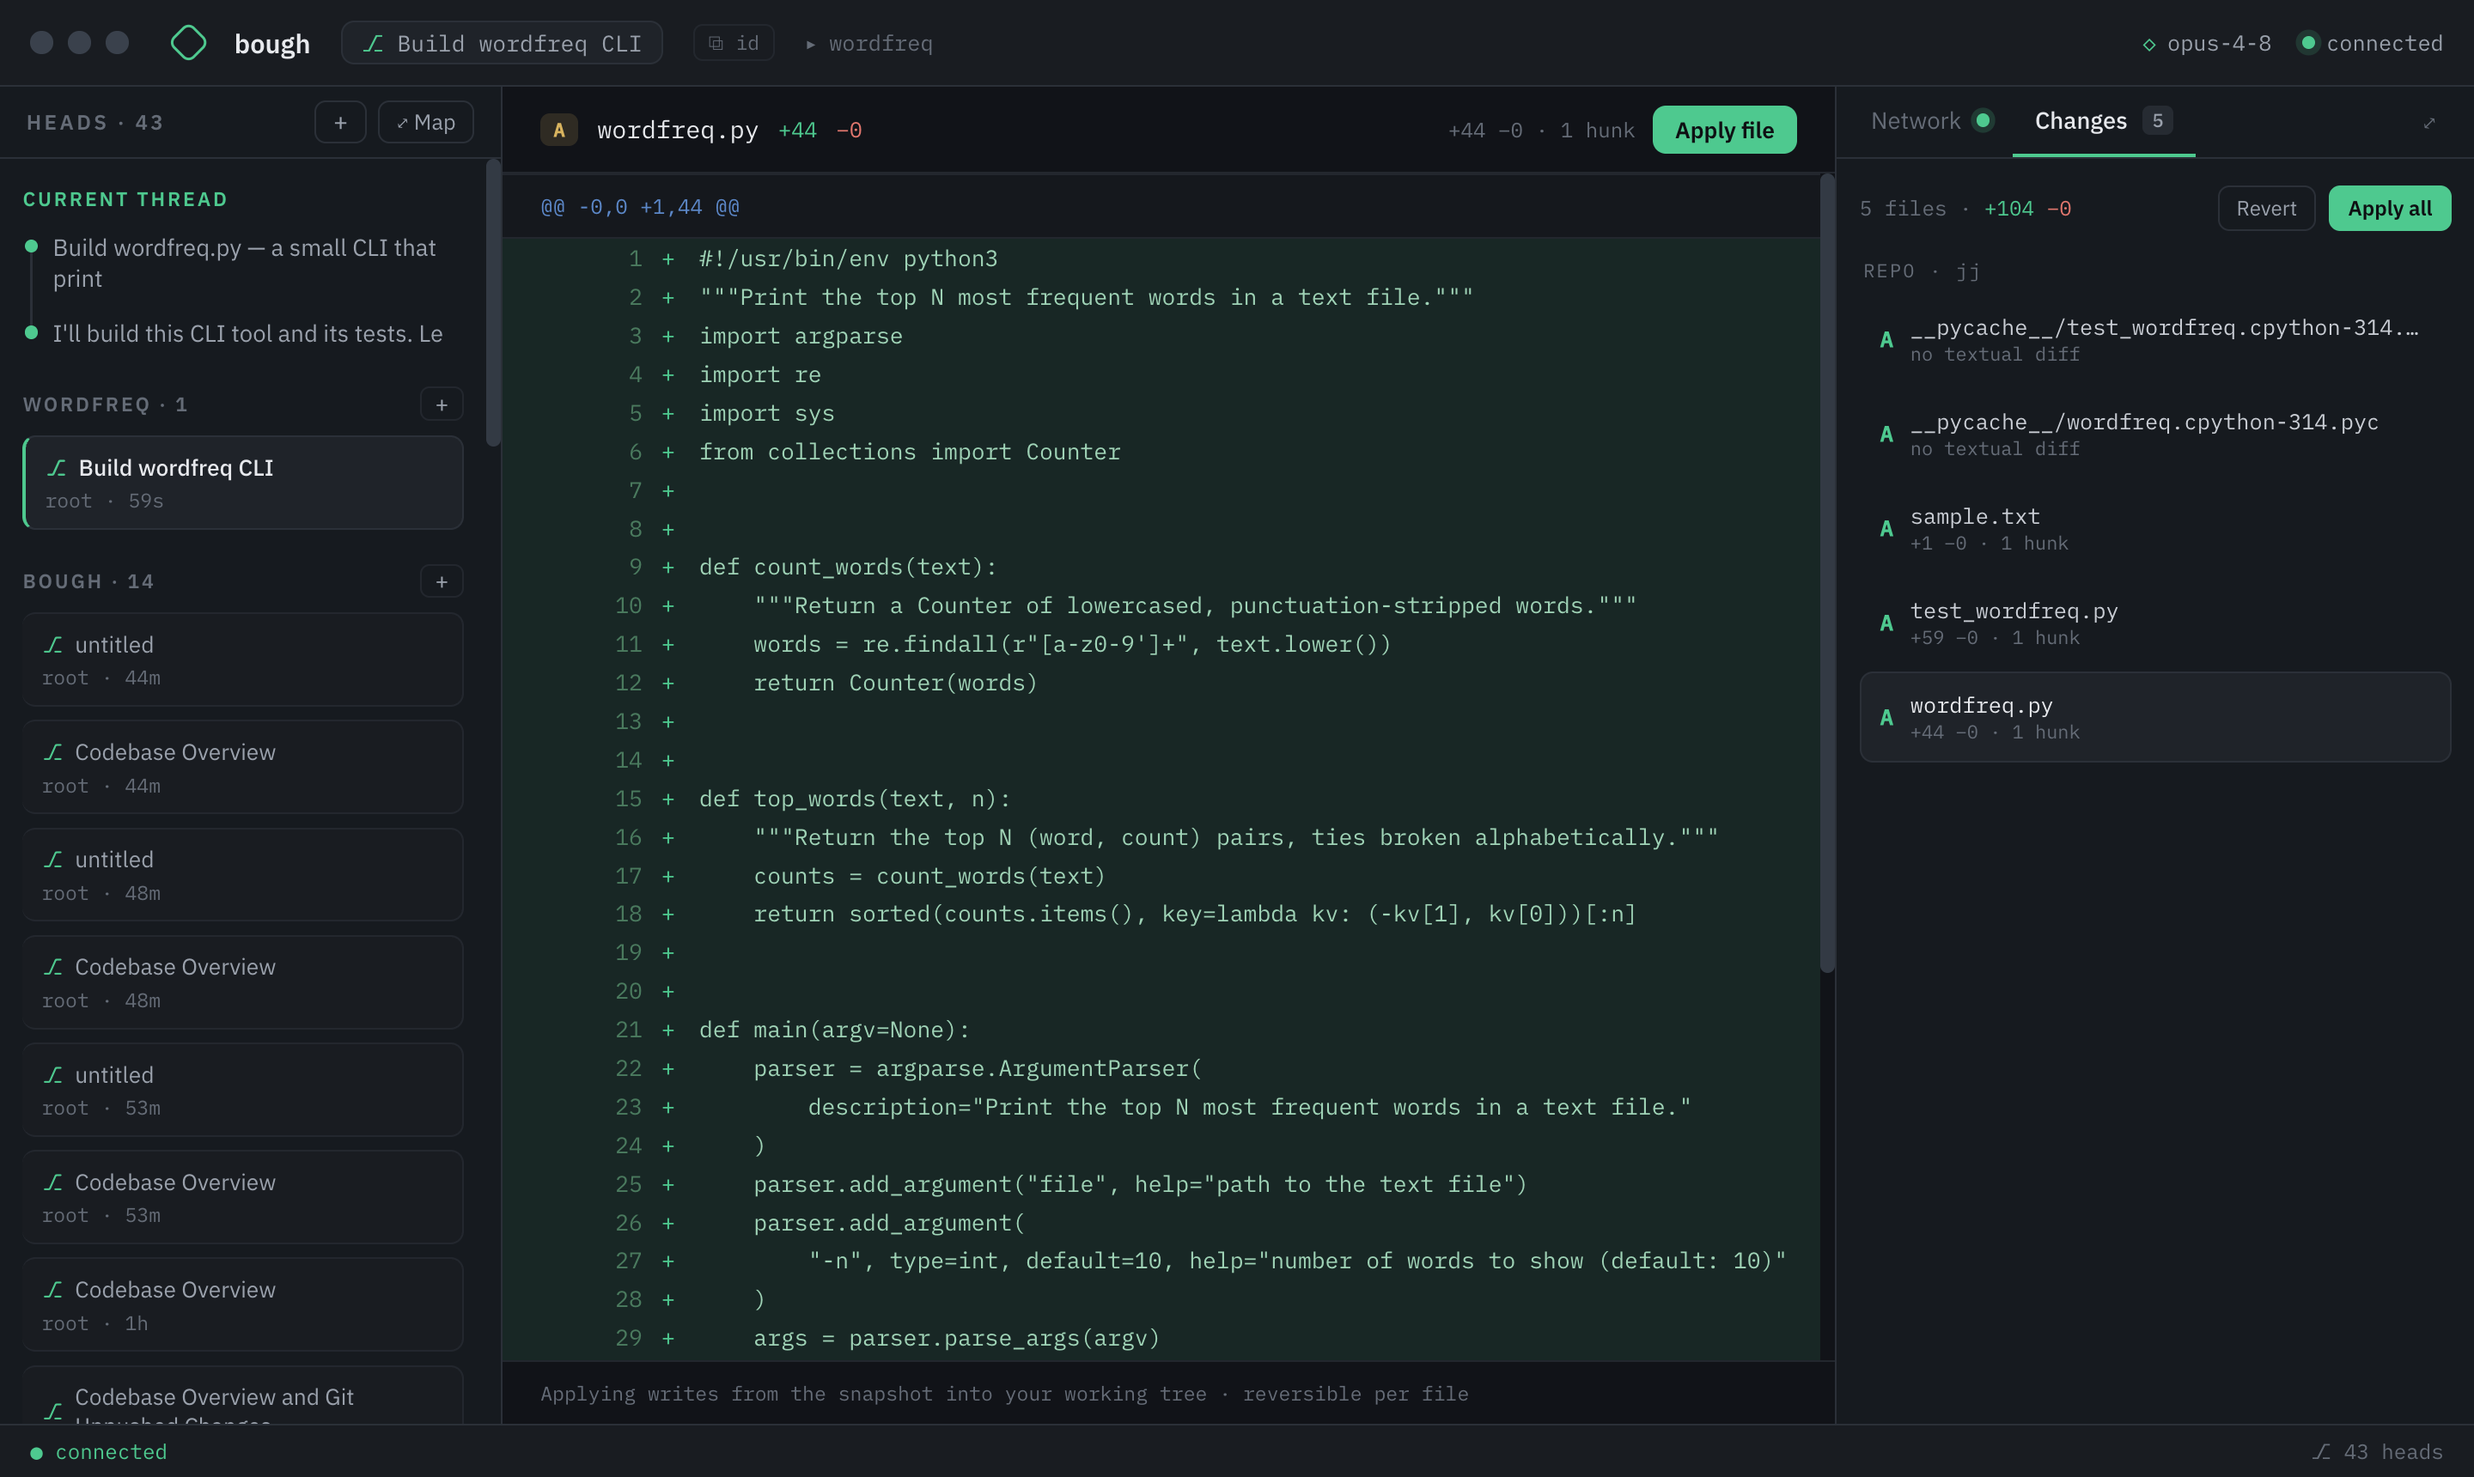
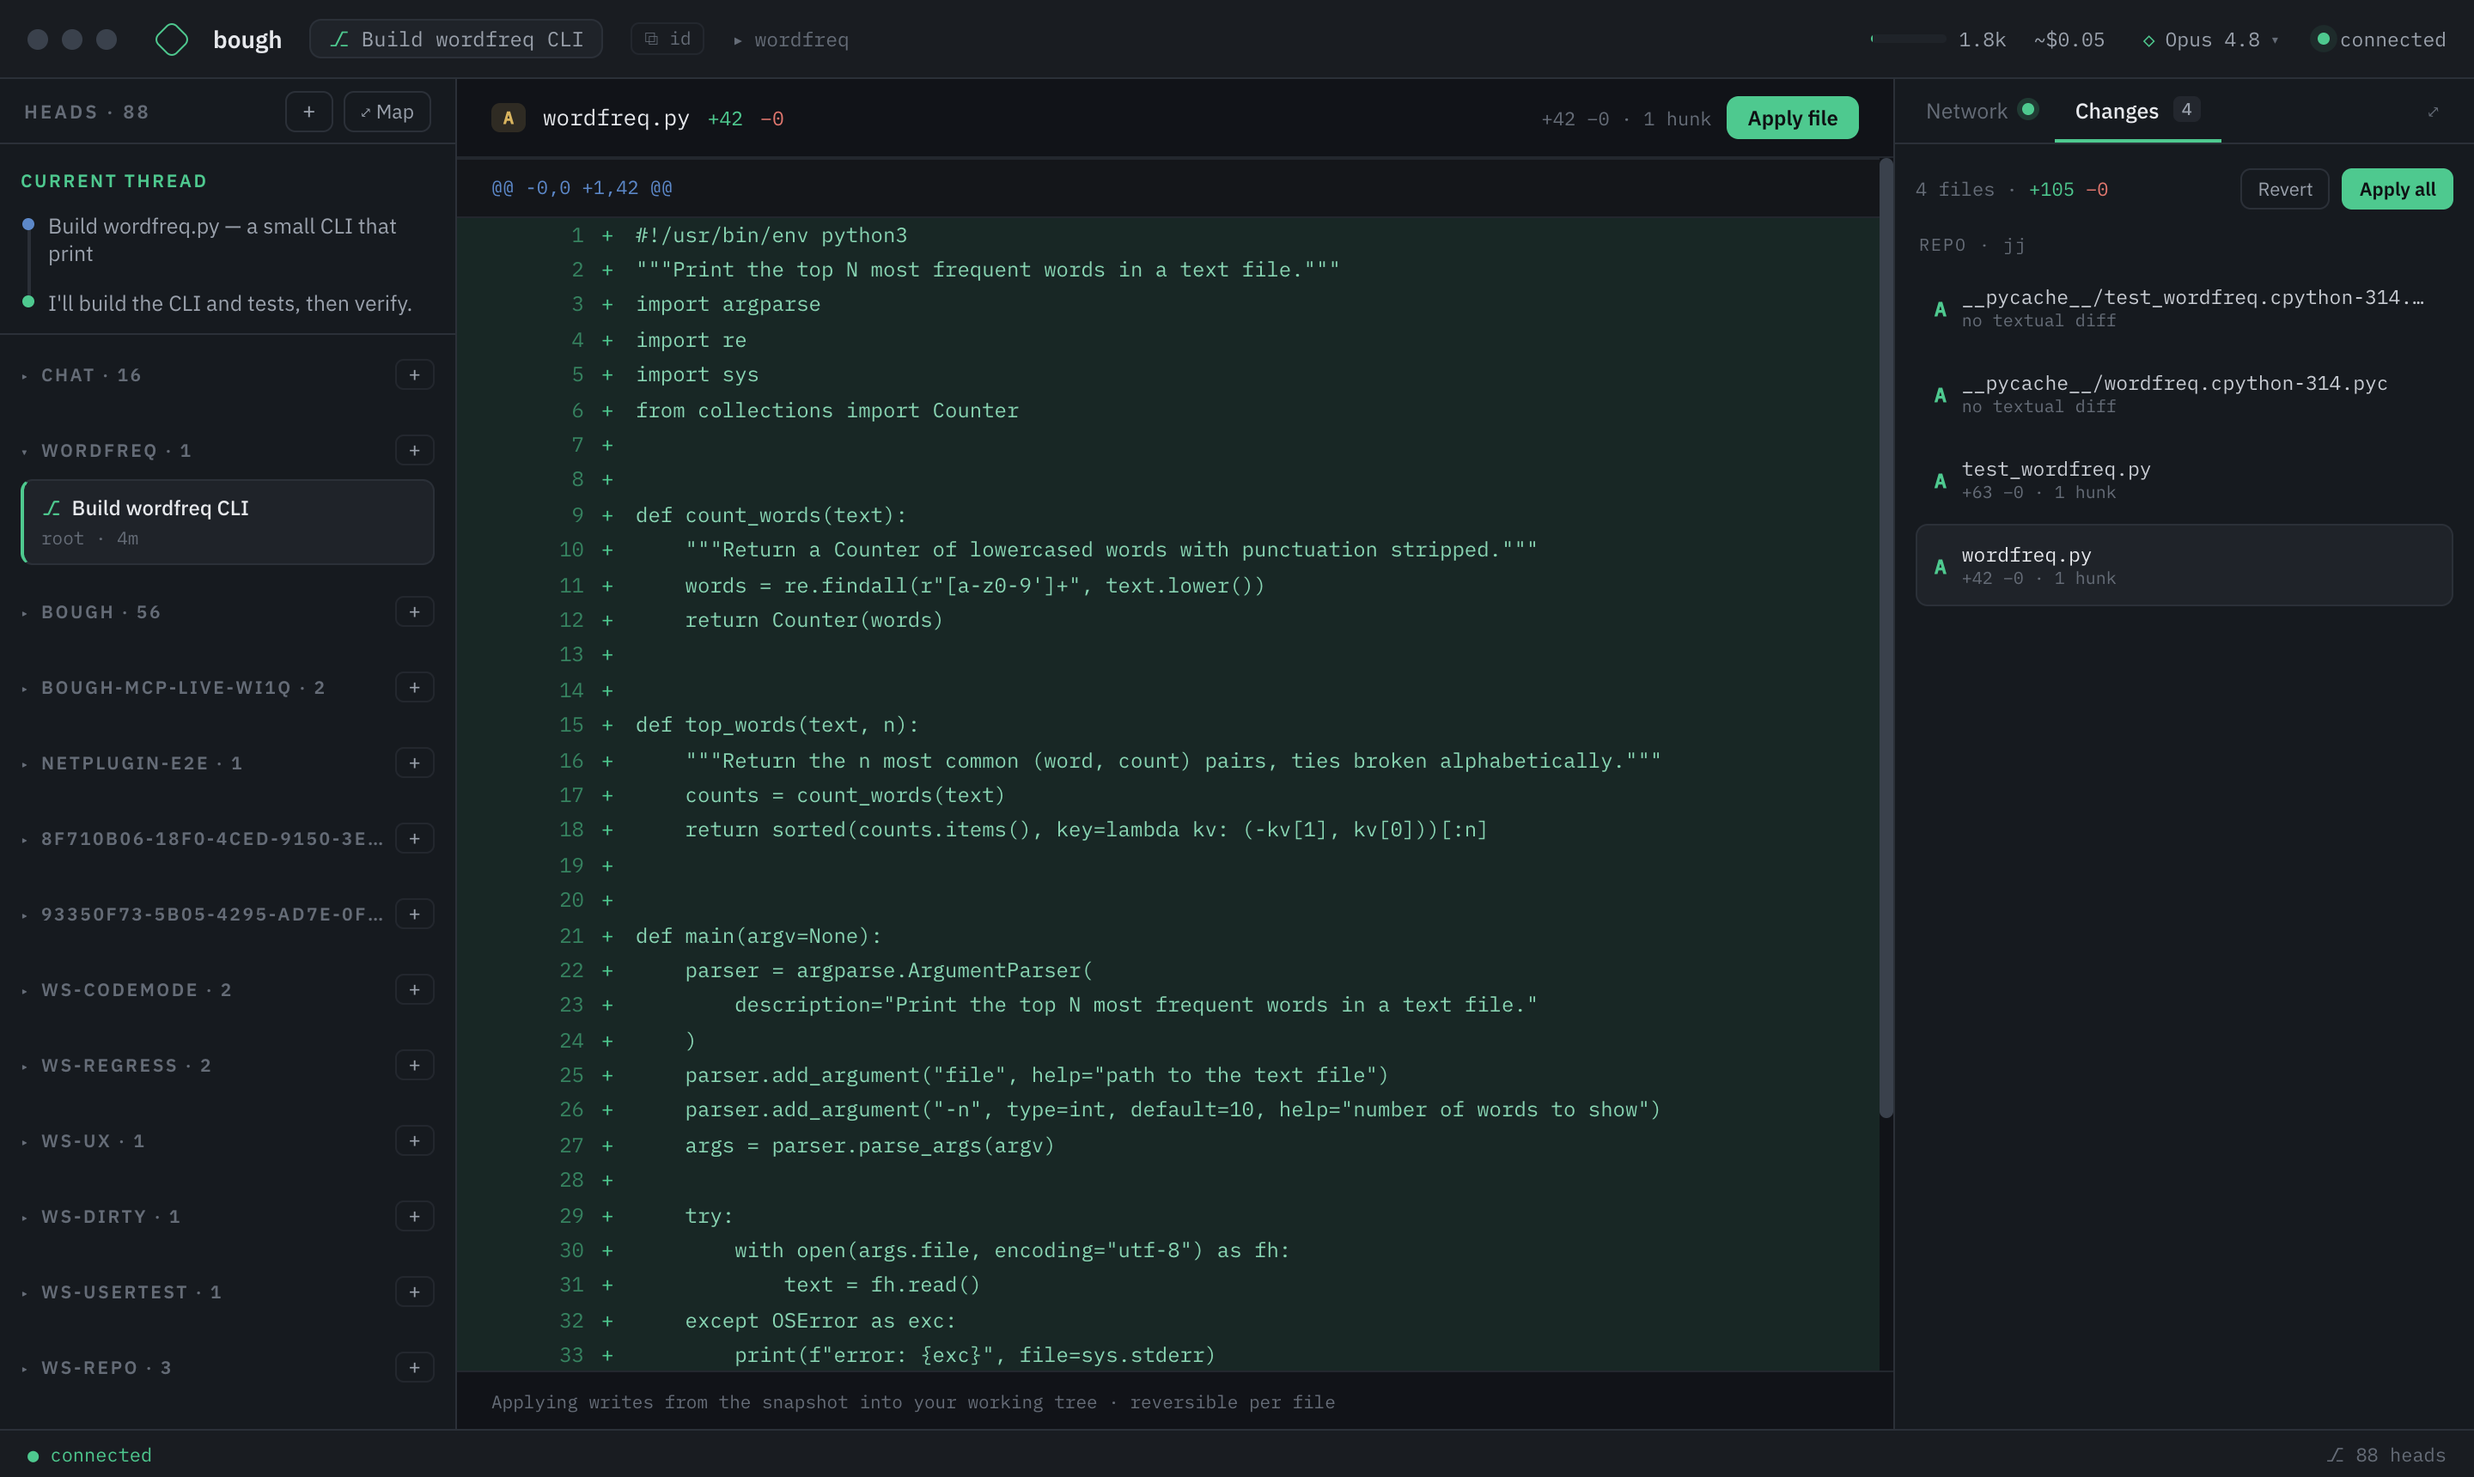
readme: fresh screenshots of the live UI + tighter copy
Retake hero/changes/mobile against the current UI (Claw Patrol rail,
workspace-grouped heads, cost meter) from a rerun of the wordfreq demo.
Trim the prose: shorter intro, deduped sandbox details, drop the make
shorthands line.

diff --git a/README.md b/README.md
@@ -13,18 +13,18 @@
   <img src="assets/screenshots/hero.png" alt="bough running a task — the sealed-VM program expanded, CHECK passed" width="900">
 </p>
 
-bough runs a frontier model as a **supervisor** that plans by writing code, which a deterministic harness executes inside a **kernel-enforced sandbox** — each turn's program runs in a sealed V8 worker, spawned processes are confined by a **macOS Seatbelt** profile, and outbound network passes through a default-deny egress gate with a live allow/deny leash. Every turn is a node in a tree you can **fork** — restoring the conversation *and* the files. Written in **TypeScript on Deno**, served as a headless server with a React web UI.
+bough runs a frontier model as a **supervisor** that plans by writing code. A deterministic harness executes that code in a sealed V8 worker, confines spawned processes with a **macOS Seatbelt** profile, and routes outbound network through a default-deny egress gate. Every turn is a node in a tree you can **fork** — restoring the conversation *and* the files. TypeScript on Deno; headless server with a React web UI.
 
 ## Why bough
 
-- 🌳 **Branchable history, branchable files.** History is a tree. Fork any earlier turn and the workspace reverts with it — explore a risky change, jump back if it goes wrong.
+- 🌳 **Branchable history, branchable files.** Fork any earlier turn and the workspace reverts with it — explore a risky change, jump back if it goes wrong.
 - 🔒 **Safe to leave running.** Every command runs under a kernel sandbox: workspace-only writes, `~/.ssh`/`~/.aws` and other secrets denied, network default-deny with a live allow/deny leash.
 - ⚙ **Code-mode.** The supervisor writes a small program each turn (`bash`/`read`/`write`/`edit`) instead of one-shot tool calls — loops, composition, real control flow.
-- ✅ **Deterministic done.** A turn is only "done" when a committed `CHECK` command exits 0 — not when the model says so.
+- ✅ **Deterministic done.** A turn is "done" only when a committed `CHECK` command exits 0 — not when the model says so.
 
 ## Run
 
-On a fresh Mac, bootstrap everything (Homebrew packages, web build, worker model, the `bough` CLI) and run the server as a launchd user service — it starts at login and relaunches after a crash, but never watches files: editing the repo doesn't touch the running server until you explicitly restart.
+`scripts/bough setup` bootstraps a fresh Mac (deps, web build, worker model, the `bough` CLI) and installs the server as a launchd user service: starts at login, relaunches on crash, never watches files — editing the repo doesn't touch the running server until you restart.
 
 ```bash
 scripts/bough setup                    # one-time: deps + web build + env (prompts for the key) + start
@@ -53,7 +53,7 @@ deno task tunnel                       # terminal 2 — prints a public trycloud
 
 ## Use it
 
-Point a session at a repo and ask. The supervisor plans, the sandbox runs the work, and a deterministic `CHECK` decides when it's done — every turn snapshotted so you can fork the history and the files together.
+Point a session at a repo and ask. The supervisor plans, the sandbox runs the work, and `CHECK` decides when it's done — every turn snapshotted, so history and files fork together.
 
 - **Branch anything.** Edit any past turn to fork from that point, or compact a span of turns into a summarized branch; the heads map lays the whole tree out.
 - **Review what changed.** The Changes rail shows the run's uncommitted work as diffs — apply per file or revert, before anything touches your tree for keeps.
@@ -61,23 +61,22 @@ Point a session at a repo and ask. The supervisor plans, the sandbox runs the wo
 <p align="center">
   <img src="assets/screenshots/changes.png" alt="reviewing a run's diff before applying it" width="900">
 </p>
+
 - **Own the network.** The Network rail is a live feed of gated egress; a request outside policy pauses as a *hold* you allow or deny from the UI. Installable policy **bundles** (e.g. `github`) grant scoped access with credential injection, so tokens never enter the sandbox.
-- **Local worker.** A small local model (Qwen2.5-Coder-3B via `llama-server`, fetched by `scripts/worker-model.sh` into `~/.bough/models`) handles delegated fixes for free, gated by `CHECK`.
+- **Local worker.** A small local model (Qwen2.5-Coder-3B via `llama-server`) handles delegated fixes for free, gated by `CHECK`.
 
 ## How it works
 
 - **One tool.** The supervisor's only tool is a JS program per turn, executed in a fresh Deno Worker with `permissions: "none"` — a sealed V8 isolate; only `bash`/`read`/`write`/`edit` bridge out.
-- **Two fences.** The worker isolate confines the agent's program; a macOS Seatbelt profile confines the processes it launches — secrets unreadable, writes confined to the workspace (+ toolchain caches).
-- **Gated egress.** Outbound traffic is captured and matched against policy; misses hold for a human verdict. Policies ship as parameterized bundles.
+- **Two fences.** The worker isolate confines the agent's program; a macOS Seatbelt profile confines the processes it launches.
+- **Gated egress.** Outbound traffic is matched against policy; misses hold for a human verdict. Policies ship as parameterized bundles.
 - **Snapshots.** Each turn checkpoints the workspace ([jj](https://github.com/jj-vcs/jj) for repos, APFS clonefile for config); a fork restores it.
 - **Headless server + web UI.** One Deno process serves the JSON API, an SSE event stream, and the built React UI on `:4321` — same origin, phone-friendly, optional password gate for remote use.
 
 ## Develop
 
 ```bash
-deno task test     # unit + integration tests
-deno task check    # typecheck
+deno task test            # unit + integration tests
+deno task check           # typecheck
 cd web && npm run build   # rebuild the web UI (server serves web/dist)
 ```
-
-`make serve` / `make test` / `make check` are shorthands for the same.
